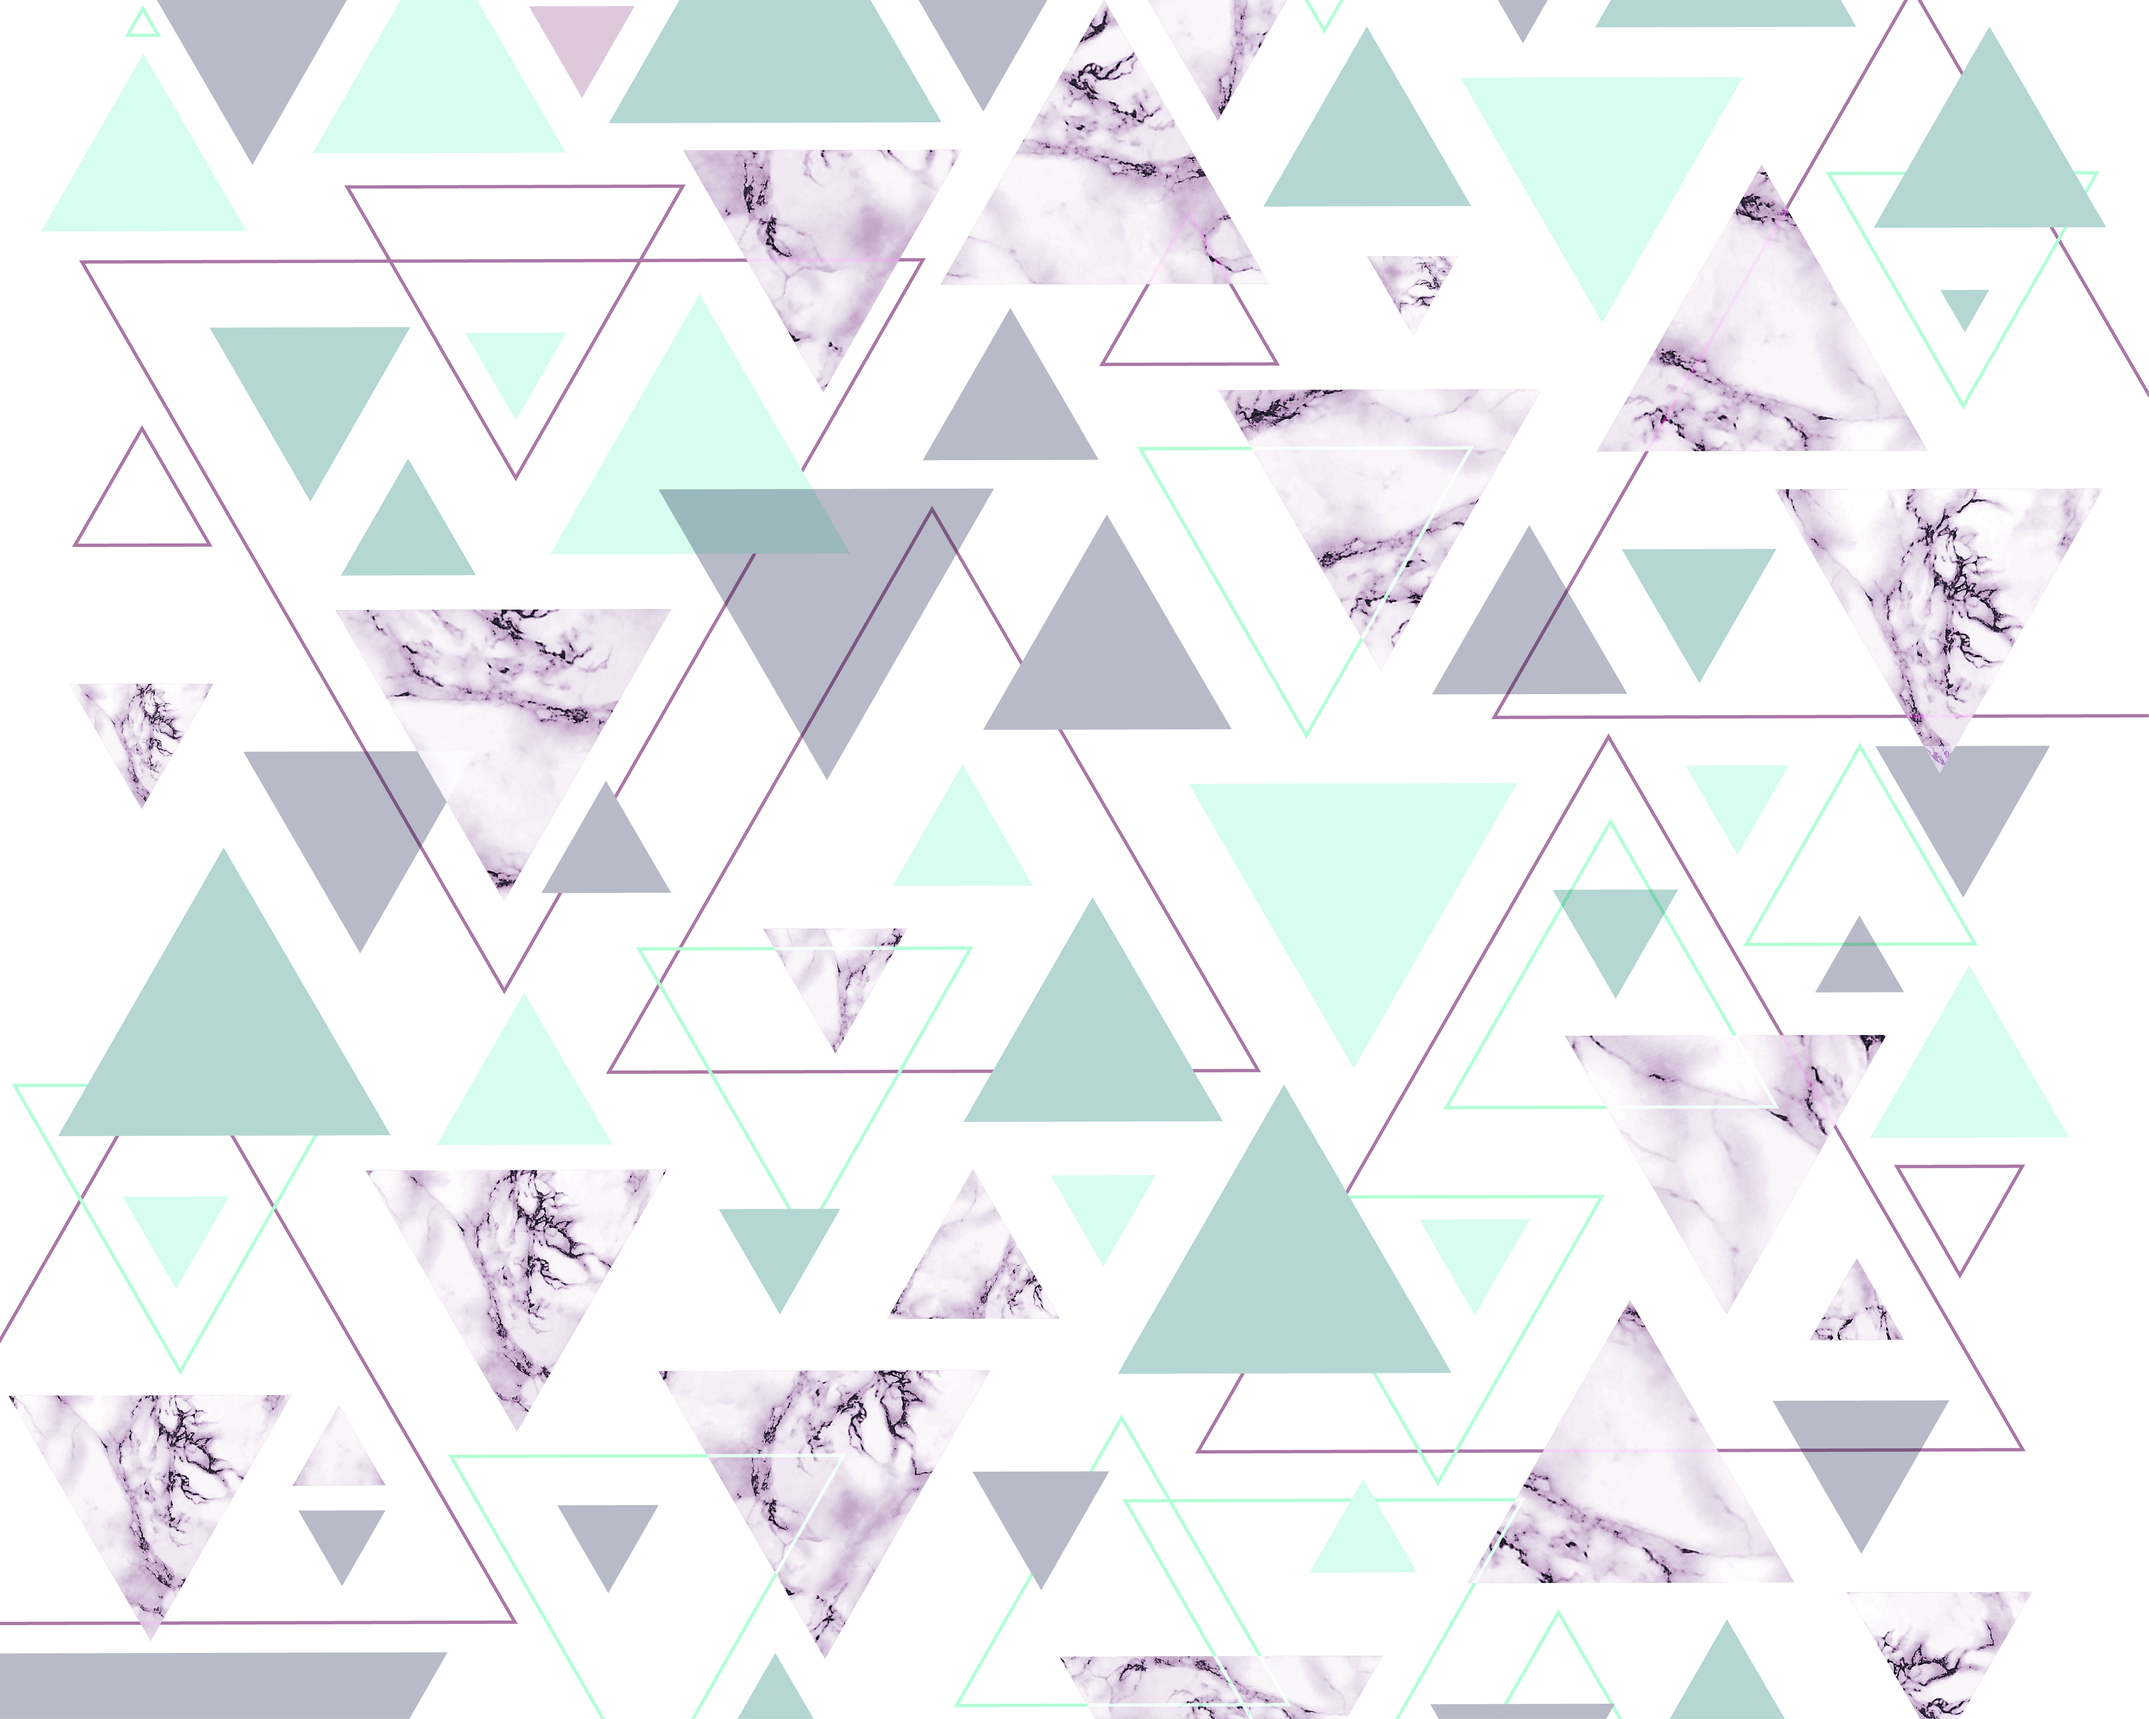
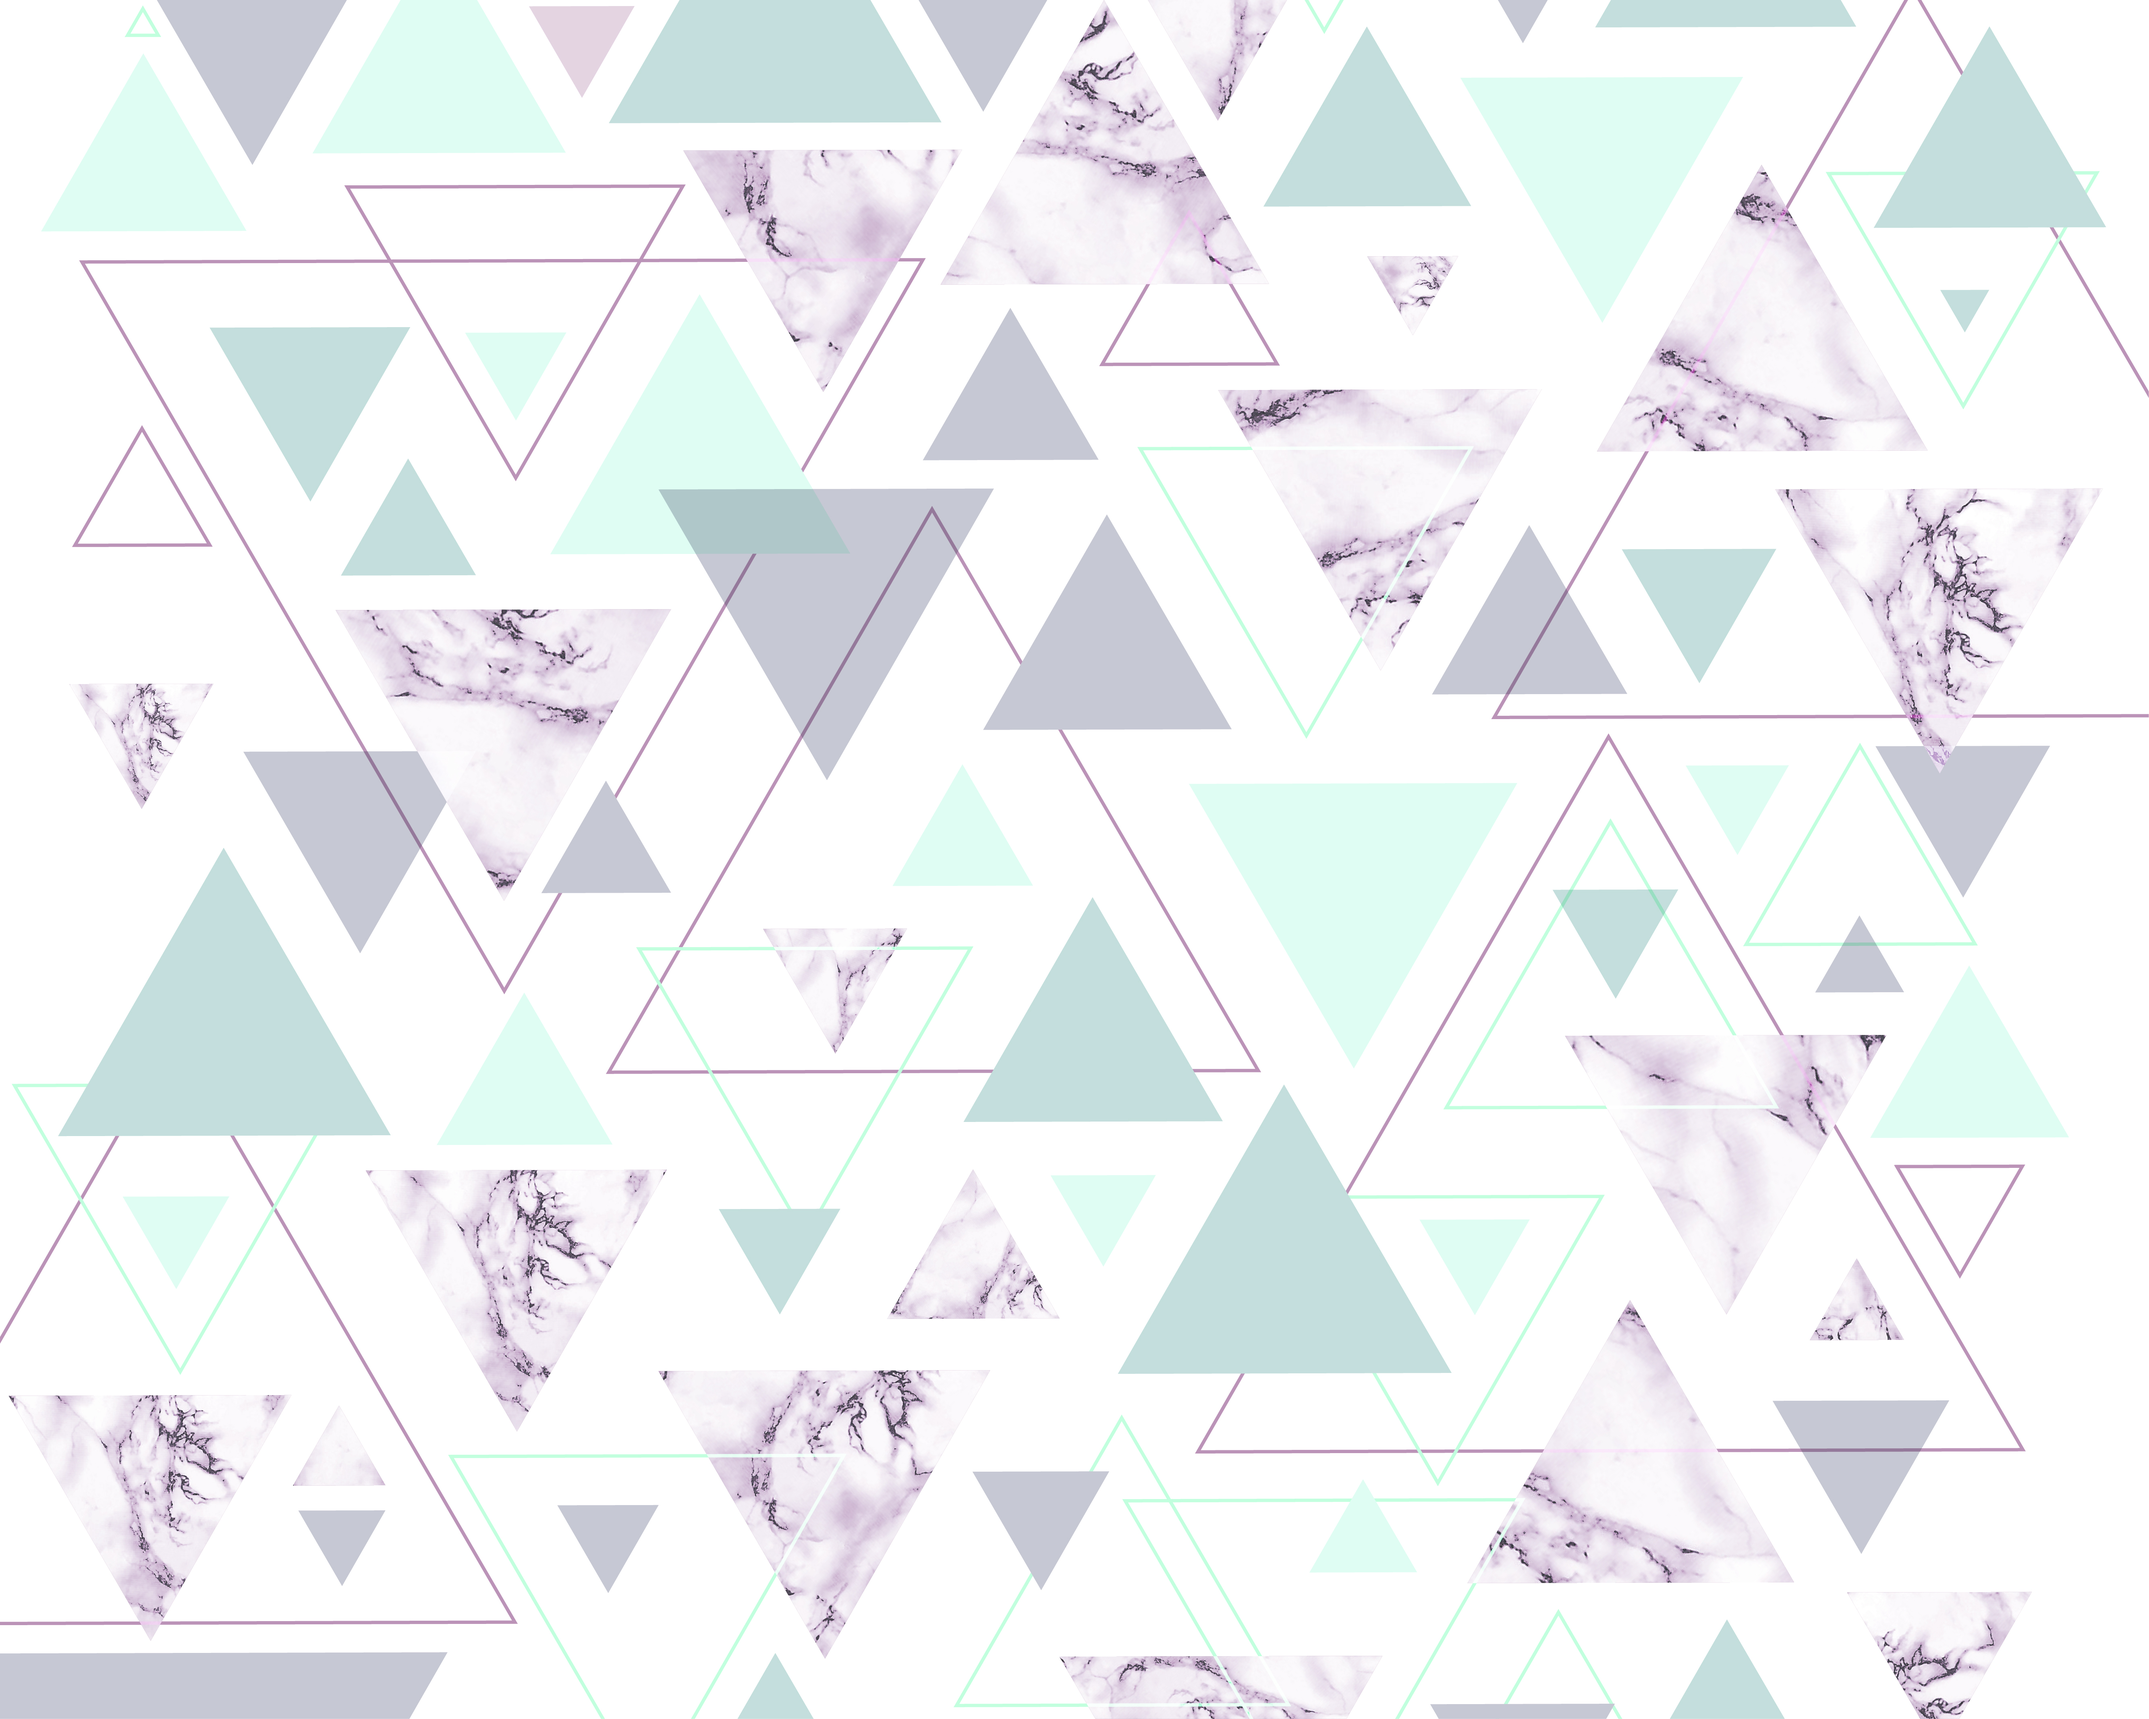
updated styling and footer added Readme File Added

diff --git a/styles.css b/styles.css
@@ -1,31 +1,22 @@
 @import url('https://fonts.googleapis.com/css2?family=Courgette&family=Kalam:wght@300;400;700&family=Kaushan+Script&family=Raleway:ital,wght@0,100;0,200;0,300;0,400;0,500;0,600;0,700;0,800;0,900;1,100;1,200;1,300;1,400;1,500;1,600;1,700;1,800;1,900&display=swap');
 
-*, *::before, *::after {
+* {
     box-sizing: border-box;
     font-family: 'Kalam', cursive, Tahoma;
+    padding: 0;
+    margin: 0;
 }
 
 body {
-    padding: 0;
-    margin: 0;
-    display: flex;
-    width: 100vw;
+    position: relative; 
     height: 100vh;
-    justify-content: center;
+    width: 100%;
+    display: flex;
     align-items: center;
-    background-image: url("images/geometric-bg.jpg");
+    justify-content: center;
+    background-image: url('images/geometric-bg.jpg');
     background-repeat: no-repeat;
     background-size: cover;
-}
-
-body::before {
-    content: "";
-    position: absolute;
-    top: 0px;
-    right: 0px;
-    bottom: 0px;
-    left: 0px;
-    background-color: rgba(255,255,255,0.4);
 }
 
 .card {
@@ -84,4 +75,59 @@ body::before {
     box-shadow: 2px 2px 5px #B4D6D3;
     color: #AA78A6;
     text-shadow: 1px 1px 1px #B4D6D3;
+}
+
+footer {
+    align-content: center;
+    position: absolute;
+    bottom: 0;
+    left: 0;
+}
+
+.footer-text {
+    display: flex;    
+    align-self: center;
+    justify-content: flex-start; 
+    font-weight: 600;
+    font-size: 1.1em;
+    text-transform: uppercase;
+    color: #B2FFD6;
+    text-shadow: 1px 1px 3px #AA78A6;
+}
+
+.footer-links {
+    display: flex;
+    align-self: center;
+    justify-content: flex-end;
+}
+
+.fa {
+    font-size: 1.8em;
+    color: #AA78A6;
+    text-decoration: none;
+    padding: 0 30px 0 0;
+}
+
+.fa:hover {
+    color: #B2FFD6;
+    text-shadow: 1px 1px 3px #B4D6D3;
+}
+
+@media (max-width: 768px) {
+    footer {
+        bottom: 0;
+        left: 0;
+    }
+}
+
+@media (max-width: 572px) {
+    .footer-text  {
+        justify-content: center;
+        padding: 5px;
+    }
+
+    .footer-links {
+        justify-content: center;
+        padding: 5px;
+    }
 }

diff --git a/index.html b/index.html
@@ -12,12 +12,15 @@
         <link rel="icon" type="image/png" href="faicon/favicon-32x32.jpg" sizes="32x32">
         <link rel="icon" type="image/png" href="faicon/favicon-96x96.jpg" sizes="96x96">
 
-        <!-- BOOTSTRAP CSS STYLES LINK -->
+        <!-- BOOT STRAP LINK -->
         <link href="https://cdn.jsdelivr.net/npm/bootstrap@5.1.3/dist/css/bootstrap.min.css" rel="stylesheet" integrity="sha384-1BmE4kWBq78iYhFldvKuhfTAU6auU8tT94WrHftjDbrCEXSU1oBoqyl2QvZ6jIW3" crossorigin="anonymous">
-        <link rel="stylesheet" href="https://cdn.jsdelivr.net/npm/bootstrap-icons@1.7.2/font/bootstrap-icons.css">
-
-        <!-- CSS LINK -->   
+        
+        <!-- CSS LINK -->        
         <link rel="stylesheet" href="styles.css">
+        
+        <!-- FONT AWESOME LINK -->
+        <script src="https://kit.fontawesome.com/4f133ed2d1.js" crossorigin="anonymous"></script>
+        
 
     </head>
 
@@ -37,6 +40,17 @@
                         </div>
                     </wrapper>
                 </div>
+                <footer class="container-fluid">
+                    <div class="row py-2">
+                        <div class="col-sm">
+                            <span class="footer-text">mindfulness Meditation &copy;EJ@2022</span>
+                        </div>
+                        <div class="col-sm footer-links">
+                            <a href="https://www.linkedin.com/in/ellie-judge-45b00689/" class="fa fa-linkedin-square" aria-hidden="true" target="_blank"></a>
+                            <a href="https://github.com/EllieJ87" class="fa fa-github" aria-hidden="true" target="_blank"></a> 
+                        </div>
+                    </div>
+                  </footer>
             </div>
         </div>
 

diff --git a/README.md b/README.md
@@ -1,0 +1,29 @@
+MINDFULNESS MEDITATION
+
+User Story #1: I can see a wrapper element with a corresponding id="quote-box".
+
+User Story #2: Within #quote-box, I can see an element with a corresponding id="text".
+
+User Story #3: Within #quote-box, I can see an element with a corresponding id="author".
+
+User Story #4: Within #quote-box, I can see a clickable element with a corresponding id="new-quote".
+
+User Story #5: Within #quote-box, I can see a clickable a element with a corresponding id="tweet-quote".
+
+User Story #6: On first load, my quote machine displays a random quote in the element with id="text".
+
+User Story #7: On first load, my quote machine displays the random quote's author in the element with id="author".
+
+User Story #8: When the #new-quote button is clicked, my quote machine should fetch a new quote and display it in the #text element.
+
+User Story #9: My quote machine should fetch the new quote's author when the #new-quote button is clicked and display it in the #author element.
+
+User Story #10: I can tweet the current quote by clicking on the #tweet-quote a element. This a element should include the "twitter.com/intent/tweet" path in its href attribute to tweet the current quote.
+
+User Story #11: The #quote-box wrapper element should be horizontally centered. Please run tests with browser's zoom level at 100% and page maximized.
+
+You can build your project by using this CodePen template and clicking Save to create your own pen. Or you can use this CDN link to run the tests in any environment you like: https://cdn.freecodecamp.org/testable-projects-fcc/v1/bundle.js
+
+Once you're done, submit the URL to your working project with all its tests passing.
+
+Note: Twitter does not allow links to be loaded in an iframe. Try using the target="_blank" or target="_top" attribute on the #tweet-quote element if your tweet won't load. target="_top" will replace the current tab so make sure your work is saved.
